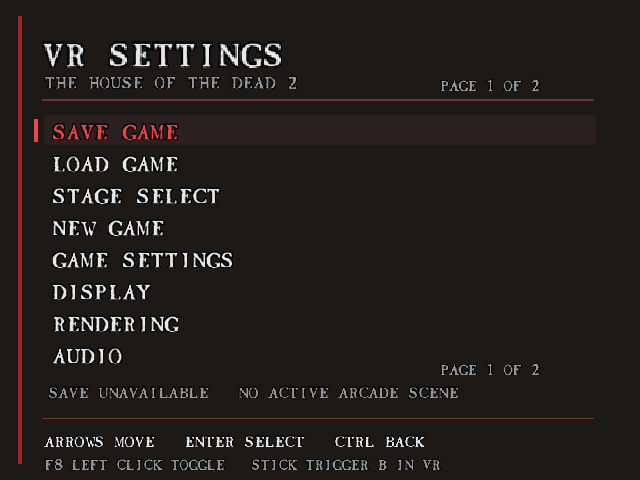
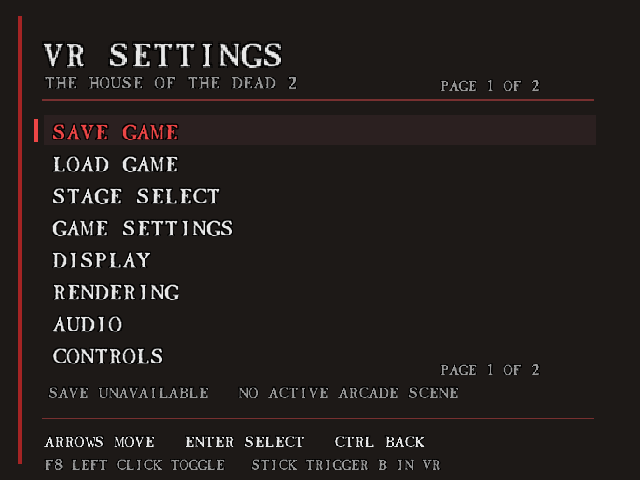
feat: streamline VR settings and refresh README media

diff --git a/src/vr_menu.h b/src/vr_menu.h
@@ -14,8 +14,8 @@ static const char *const vrMenuGroups[]={"GAME SETTINGS","DISPLAY","RENDERING","
 static const char *const vrMenuGroupHelp[]={"GAME STARTUP AND SAVING","OUTPUTS AND PICTURE SETTINGS",
     "WORLD SCALE AND GRAPHICS QUALITY","GAME MUSIC AND EFFECTS VOLUME",
     "GUNS AIMING AND CONTROLLER FEEDBACK","OPTIONAL GAMEPLAY ASSISTS"};
-enum { MENU_SAVE_GAME,MENU_LOAD_GAME,MENU_STAGE_SELECT,MENU_NEW_GAME,MENU_GROUP_FIRST,MENU_RESET=MENU_GROUP_FIRST+MENU_GROUP_COUNT,MENU_TITLE,MENU_QUIT };
-static const char *const vrMenuRootLabels[]={"SAVE GAME","LOAD GAME","STAGE SELECT","NEW GAME","GAME SETTINGS","DISPLAY","RENDERING","AUDIO","CONTROLS","CHEATS","RESET DEFAULTS","RETURN TO TITLE","QUIT GAME"};
+enum { MENU_SAVE_GAME,MENU_LOAD_GAME,MENU_STAGE_SELECT,MENU_GROUP_FIRST,MENU_RESET=MENU_GROUP_FIRST+MENU_GROUP_COUNT,MENU_TITLE,MENU_QUIT };
+static const char *const vrMenuRootLabels[]={"SAVE GAME","LOAD GAME","STAGE SELECT","GAME SETTINGS","DISPLAY","RENDERING","AUDIO","CONTROLS","CHEATS","RESET DEFAULTS","RETURN TO TITLE","QUIT GAME"};
 enum { MENU_STAGES=MENU_GROUP_COUNT,MENU_SCENES };
 static const unsigned vrMenuRootCount=sizeof(vrMenuRootLabels)/sizeof(vrMenuRootLabels[0]);
 static unsigned g_vrMenuRequest,g_vrMenuAction;
@@ -368,7 +368,6 @@ static int vrMenuControl(unsigned input)
             if(g_frame && g_frame->checkpoint_current_stage>=1 && g_frame->checkpoint_current_stage<=6)
                 g_vrMenuRow=(int)g_frame->checkpoint_current_stage-1;
         }
-        else if(g_vrMenuRow==MENU_NEW_GAME)vrMenuCheckpoint(HOTD_CHECKPOINT_NEW,0,0);
         else if(g_vrMenuRow==MENU_RESET)vrMenuResetDefaults();
         else if(g_vrMenuRow==MENU_TITLE){if(vrMenuSave())vrMenuCheckpoint(HOTD_CHECKPOINT_TITLE,0,0);}
         else if(g_vrMenuRow==MENU_QUIT)vrMenuQuitGame();
@@ -463,7 +462,6 @@ static void vrMenuCanvas(void)
     const char *hint=g_vrMenuPage>=0 && g_vrMenuPage<MENU_GROUP_COUNT?vrMenuItems[g_vrMenuPage][g_vrMenuRow].help:
         g_vrMenuRow>=MENU_GROUP_FIRST && g_vrMenuRow<MENU_RESET?vrMenuGroupHelp[g_vrMenuRow-MENU_GROUP_FIRST]:"";
     if(g_vrMenuPage<0 && (g_vrMenuRow==MENU_SAVE_GAME || g_vrMenuRow==MENU_LOAD_GAME))hint=g_vrMenuDestination;
-    if(g_vrMenuPage<0 && g_vrMenuRow==MENU_NEW_GAME)hint="RESTART ARCADE AT FIRST SCENE";
     if(g_vrMenuPage<0 && g_vrMenuRow==MENU_STAGE_SELECT)hint="CHOOSE STAGE THEN SCENE";
     if(g_vrMenuPage<0 && g_vrMenuRow==MENU_RESET)
         hint=g_vrMenuResetPending?"DEFAULTS RESTORED   SAVE ON CLOSE":"RESET ALL OPTIONS   CHEATS OFF";

diff --git a/tests/test_frame_snapshot.c b/tests/test_frame_snapshot.c
@@ -255,6 +255,14 @@ static void check_controller_modes(void)
     controller_reloads=3;controller_tick();
     assert(g_frame->aim_buttons==VC2_BTN_RELOAD && g_frame->aim2_buttons==VC2_BTN_RELOAD);
     controller_reloads=0;controller_tick();
+    for(unsigned paired=0;paired<2;paired++)for(unsigned hand=0;hand<2;hand++) {
+        g_cfgAkimbo=paired;g_activePlayers=3;controller_backs=1u<<hand;controller_tick();
+        unsigned mask=VC2_BTN_BACK|VC2_BTN_RELOAD|VC2_BTN_FIRE;
+        assert((g_frame->aim_buttons&mask)==(hand==1?VC2_BTN_BACK:0));
+        assert((g_frame->aim2_buttons&mask)==(hand==0?VC2_BTN_BACK:0));
+        controller_backs=0;controller_tick();
+    }
+    g_cfgAkimbo=0;
     /* Both sticks navigate independently of gun visibility or player joining. */
     controller_fires=0;g_activePlayers=0;controller_sticks_active=1;
     const unsigned directions[]={VC2_BTN_UP,VC2_BTN_DOWN,VC2_BTN_RIGHT,VC2_BTN_LEFT};
@@ -455,7 +463,9 @@ int main(void)
     assert(g_frame->aim_buttons==VC2_BTN_MENU && !g_frame->aim2_buttons); /* UI Trigger cannot join/fire behind the page. */
     controller_fires=0;g_cheatFlags=0;vrMenuInit();
     g_actSettings=(XrAction)(uintptr_t)10;
-    controller_backs=2;controller_tick();controller_backs=0;controller_tick(); /* Back to root. */
+    controller_backs=2;controller_tick(); /* Back to root; cannot reload behind settings. */
+    assert(g_vrMenuPage==-1 && g_frame->aim_buttons==VC2_BTN_MENU && !g_frame->aim2_buttons);
+    controller_backs=0;controller_tick();
     controller_backs=2;controller_tick();controller_backs=0;controller_tick();assert(g_vrMenuOpen);
     controller_pauses=3;controller_tick();controller_pauses=0;controller_tick();assert(g_vrMenuOpen);
     for(int h=0;h<2;h++) {

diff --git a/tests/test_package.py b/tests/test_package.py
@@ -31,7 +31,7 @@ class PackageTest(unittest.TestCase):
         for name in ('Start-HOTD2.ps1', 'HOTD2VR.ini', 'README.md', 'LICENSE',
                      'THIRD-PARTY.md', 'tools/extract_menu_font.ps1', 'third_party/openxr/LICENSE',
                      'docs/vr-menu.md', 'docs/cheats.md', 'docs/pause.md', 'docs/findings.md',
-                     'docs/screenshots/game-menu.png', 'docs/screenshots/vr-settings.png'):
+                     'docs/screenshots/gameplay-vr-animated.png', 'docs/screenshots/vr-settings.png'):
             target = self.root / name
             target.parent.mkdir(parents=True, exist_ok=True)
             shutil.copyfile(ROOT / name, target)
@@ -83,10 +83,10 @@ class PackageTest(unittest.TestCase):
                 'docs/findings.md', 'build/HOTD2Launch.exe', 'build/HOTD2Bridge.dll',
                 'build/HOTD2VR.exe', 'build/HOTD2VR.ini', 'build/openxr_loader.dll',
                 'build/gun.obj', 'build/gun.mtl', 'build/gun.bmp',
-                'docs/screenshots/game-menu.png', 'docs/screenshots/vr-settings.png',
+                'docs/screenshots/gameplay-vr-animated.png', 'docs/screenshots/vr-settings.png',
             })
             self.assertEqual(package.read('build/HOTD2VR.ini'), (ROOT / 'HOTD2VR.ini').read_bytes())
-            for image in ('game-menu.png', 'vr-settings.png'):
+            for image in ('gameplay-vr-animated.png', 'vr-settings.png'):
                 name = 'docs/screenshots/' + image
                 self.assertEqual(package.read(name), (ROOT / name).read_bytes())
         checksum = archive.with_suffix('.zip.sha256').read_text().strip()

diff --git a/tests/test_vr_menu.c b/tests/test_vr_menu.c
@@ -100,7 +100,7 @@ static void check_menu_layout(void)
         {"infinite_ammo","infinite_lives","invincibility","protect_rescue_npcs","infinite_continues","rapid_fire","rapid_fire_rate"}
     };
     const unsigned counts[]={2,7,11,3,8,7};
-    assert(vrMenuRootCount==13);
+    assert(vrMenuRootCount==12);
     g_vrMenuEnabled=g_vrMenuOpen=1;g_vrMenuArmed=g_vrMenuBlock=g_vrMenuPrevious=0;
     for(unsigned g=0;g<6;g++) {
         g_vrMenuPage=-1;g_vrMenuRow=MENU_GROUP_FIRST+g;

diff --git a/README.md b/README.md
@@ -1,8 +1,8 @@
 # HOTD2 PC2VR
 
-Play the original Windows version of **The House of the Dead 2** in VR. Look around the scene, aim with your motion controllers, and use them as light guns. This is an experimental mod for the original PC game.
+Play the original Windows version of **The House of the Dead 2** in VR. Look around the scene and aim with your motion controllers as light guns. Save and load scene checkpoints, choose your starting stage and scene, and enable optional cheats. This is an experimental mod for the original PC game.
 
-![The House of the Dead 2 main menu](docs/screenshots/game-menu.png)
+![The House of the Dead 2 VR gameplay](docs/screenshots/gameplay-vr-animated.png)
 
 ## How to play
 
@@ -43,7 +43,7 @@ When finished, choose **Quit game** in VR Settings to close both the game and it
 
 This panel controls the VR mod. The original game's **Options** menu is separate.
 
-![VR Settings main page with Save game, Load game and settings groups](docs/screenshots/vr-settings.png)
+![VR Settings main page with Save game, Load game, Stage select and settings groups](docs/screenshots/vr-settings.png)
 
 - **Up/down:** select an item. Keep moving down to reach the next page. Matching **PAGE X OF Y** counters at the top and bottom show when other pages are available.
 - **Left/right:** change the selected setting.
@@ -59,7 +59,7 @@ The selected option shows a short explanation below the list. For example, **Aki
 
 ## Settings explained
 
-Groups appear after Save game, Load game, Stage select and New game in this order: **Game Settings**, **Display**, **Rendering**, **Audio**, **Controls**, **Cheats**.
+Groups appear after Save game, Load game and Stage select in this order: **Game Settings**, **Display**, **Rendering**, **Audio**, **Controls**, **Cheats**.
 
 The names below match the menu. **On/off** options show `1` for on and `0` for off. Defaults describe a fresh installation; your saved settings may differ.
 
@@ -70,7 +70,6 @@ The names below match the menu. **On/off** options show `1` for on and `0` for o
 | **Save game** | Saves the current Arcade chapter and scene. Works during play or pause. This is a scene checkpoint: loading restarts that scene, rather than restoring the exact moment, enemy positions or player state. |
 | **Load game** | Restarts the saved Arcade scene. Also works from the title/menu. There is one save slot, shared with Autosave. The destination appears below the selected row. |
 | **Stage select** | Choose one of six named stages, then an available native scene ID. Confirm to restart there; browsing leaves the game unchanged. Scene availability does not guarantee every earlier route/script prerequisite. |
-| **New game** | Starts chapter 1, scene 0. Keeps the existing save, although Autosave can replace it when enabled. |
 | **Reset defaults** | Restores the menu settings to their built-in defaults, including turning cheats off. Close the panel to save the reset. Settings that need a restart still need one. |
 | **Return to title** | Ends the current run and returns to the startup title/attract sequence after the publisher logos. Saves changed settings first and keeps the checkpoint file. |
 | **Quit game** | Saves your changed settings, closes the game normally, and ends the VR viewer. |
@@ -290,7 +289,7 @@ To start a new Arcade game at another chapter, use `./Start-HOTD2.ps1 -StartStag
 
 Enable `[vr] continue_game=1` to record the latest Arcade stage/scene and resume it on subsequent new Arcade starts. Default is `0`. Launcher switches `-ContinueGame` / `-NoContinueGame` override this for one launch; opposing PowerShell switches are rejected. Explicit `-StartStage` / `-StartScene` take priority over the saved location. With recording enabled, subsequent scene changes update the checkpoint even after an explicit jump.
 
-VR Settings starts with **Save game**, **Load game**, **Stage select**, then **New game**. Save writes the current Arcade stage/scene during active or paused gameplay. Load restarts the last saved scene, including from the title/menu, with Autosave off or on. New game starts chapter 1, scene 0 and retains the save file; enabled Autosave can subsequently replace it. Load, Stage select and New game override startup stage/scene options and rebuild through native mode/task/resource initialization, resuming native pause when necessary. Existing active players remain joined; menu loads start P1 (both with akimbo on). Companion desktop previews remain read-only.
+VR Settings starts with **Save game**, **Load game**, then **Stage select**. Save writes the current Arcade stage/scene during active or paused gameplay. Load restarts the last saved scene, including from the title/menu, with Autosave off or on. Load and Stage select override startup stage/scene options and rebuild through native mode/task/resource initialization, resuming native pause when necessary. Existing active players remain joined; menu loads start P1 (both with akimbo on). Companion desktop previews remain read-only.
 
 **Game Settings > Autosave** controls `continue_game` live and saves its edited value to the active INI on settings close. The effective startup/CLI value is shown when connecting. Before selection, Save shows the current stage, chapter name and scene; Load shows the saved destination, for example `SAVE STAGE 3 DARKNESS SCENE 7` and `LOAD STAGE 2 MUDDY SCENE 8`. Missing saves and unavailable gameplay are labeled explicitly. Locations update while the menu stays open, including during pause. Save/Load captions then report progress and the acknowledged chapter name and scene, for example `SAVED A PRELUDE SCENE 4` or `LOADED MUDDY SCENE 8`. Status clears on navigation. Invalid/missing saves leave the running game intact. Initialization failure reports failure instead of success. There is one save slot, shared by manual saves and Autosave; both manual actions work with Autosave off.
 
@@ -298,7 +297,7 @@ The bridge hook uses the writable shared frame: set `checkpoint_action` (`HOTD_C
 
 The bridge stores `[checkpoint] version=1`, `stage=1..6` and `scene=0..255` in `HOTD2VR.checkpoint.ini` beside its DLL, separate from both configuration and native game saves. It writes only when the location changes during active Arcade gameplay, using a flushed temporary file and atomic replacement. No player health, score, inventory, enemy state, route history or exact script position is saved. Resume restarts the selected scene. Disabling the feature retains the file; deleting it starts normally until another checkpoint is recorded.
 
-Direct launcher equivalents are `HOTD2Launch.exe path-to-Hod2.exe --start-stage 6 --start-scene 3 --continue-game`; `--no-continue-game` disables recording/resume. These startup options belong to `HOTD2Launch.exe`, not the viewer; `--native-window` cannot be combined with an explicit checkpoint request because it skips bridge injection. Stage/scene selection is CLI-only; only the recording/resume toggle is in the INI. The existing VR settings menu provides Save, Load and New game, with Autosave under Game Settings; stage/scene selection remains CLI-only.
+Direct launcher equivalents are `HOTD2Launch.exe path-to-Hod2.exe --start-stage 6 --start-scene 3 --continue-game`; `--no-continue-game` disables recording/resume. These startup options belong to `HOTD2Launch.exe`, not the viewer; `--native-window` cannot be combined with an explicit checkpoint request because it skips bridge injection. Stage/scene selection also works through VR Settings > Stage select; only the Autosave preference is stored in the INI. The menu provides Save, Load and Stage select, with Autosave under Game Settings and Return to Title above Quit Game.
 
 Invalid numeric arguments report `Invalid stage 20` or `Invalid scene 256` before starting a process. A missing direct-launcher value reports `Invalid stage` or `Invalid scene`.
 

diff --git a/docs/vr-menu.md b/docs/vr-menu.md
@@ -41,7 +41,7 @@ Right click recenters. F8 toggles the panel in the native window, headset or des
 
 | Group | Existing settings |
 | --- | --- |
-| Game Settings | Skip startup logos and live Autosave. This is the first group after New game. |
+| Game Settings | Skip startup logos and live Autosave. This is the first group after Stage select. |
 | Display | Brightness, gamma, player-HUD swap, desktop/headset outputs, native windowed mode and initial game focus. |
 | Rendering | World scale, units per metre, resolution, MSAA, Sharp HUD, native lighting, mesh/world expansion, depth mode/bias and background rendering, in that order. |
 | Audio | Master, music and effects volumes. |
@@ -156,7 +156,7 @@ Swap player HUD is available live in Display and included in Reset Defaults.
 
 ## Save and Load integration
 
-Root entries start with Save game, Load game and New game, followed by Game Settings,
+Root entries start with Save game, Load game and Stage select, followed by Game Settings,
 Display, Rendering, Audio, Controls, Cheats, Reset Defaults, Return to Title and Quit Game. Root pages
 eight entries; settings groups page six. Matching PAGE X OF Y counters use the
 existing font, size and colour at the top and bottom of every multi-page list. Game Settings
@@ -165,9 +165,9 @@ with existing atomic INI backups. Opening settings reflects the effective startu
 CLI value and never changes it.
 
 Save works during active or paused Arcade gameplay, independently of Autosave.
-Load also works from title/menu and restarts the saved Arcade scene. New game
-starts chapter 1, scene 0 without deleting the save. Enabled Autosave can later
-replace that slot. Existing players remain joined; menu loads start P1, or both
+Load also works from title/menu and restarts the saved Arcade scene. Stage select
+chooses an available stage/scene without deleting the save. Enabled Autosave can
+later replace that slot. Existing players remain joined; menu loads start P1, or both
 when akimbo is enabled. Controller/player assignments stay unchanged.
 
 Progress captions resolve to acknowledged chapter/scene or an error and clear on
@@ -275,7 +275,7 @@ prerequisites. Native desktop selection and invalid-target tests pass; headset s
 
 ## Combined main integration
 
-Stage select follows Load game, ahead of New game and Game Settings. The current
+Stage select follows Load game, ahead of Game Settings. The current
 Controls order, Akimbo label, per-option help, Return to Title, HUD ownership and
 rescue-NPC protection remain intact. Stage select uses command 4; Return to Title
 retains command 3. Matching protocol-24 bridge/viewer builds are mandatory because
@@ -295,3 +295,8 @@ The main branch's graphics-free services mode remains unchanged: disabling both
 outputs (or using NoGraphicsHooks) disables the menu and installs no graphics hooks.
 Native-window menu composition requires capture enabled by a desktop/headset output.
 The standalone native-window comparison launcher remains uninjected.
+
+The root New Game action is removed. Stage select supplies explicit scene starts,
+while Return to Title ends the current run. The legacy NEW bridge command remains
+for protocol compatibility and existing native smoke tests; the VR menu cannot
+submit it. This menu-only change does not alter protocol 24, INI values or saves.

diff --git a/docs/pause.md b/docs/pause.md
@@ -28,7 +28,7 @@ Desktop replay verification:
 
 ## Separate Start and Pause input
 
-Integrated protocol 23 carries `VC2_BTN_PAUSE=128` and separate Reload/Skip/Cancel inputs alongside audio, briefing-book metadata, player-HUD ownership, acknowledged manual-checkpoint requests and native menu canvas transport. Current bindings:
+Integrated protocol 24 carries `VC2_BTN_PAUSE=128` and separate Reload/Skip/Cancel inputs alongside audio, briefing-book metadata, player-HUD ownership, acknowledged manual-checkpoint requests and native menu canvas transport. Current bindings:
 
 - Trigger: Fire and Start/confirm; existing tilted-gun reload gesture remains.
 - A/X: Start/confirm and Pause/resume.
